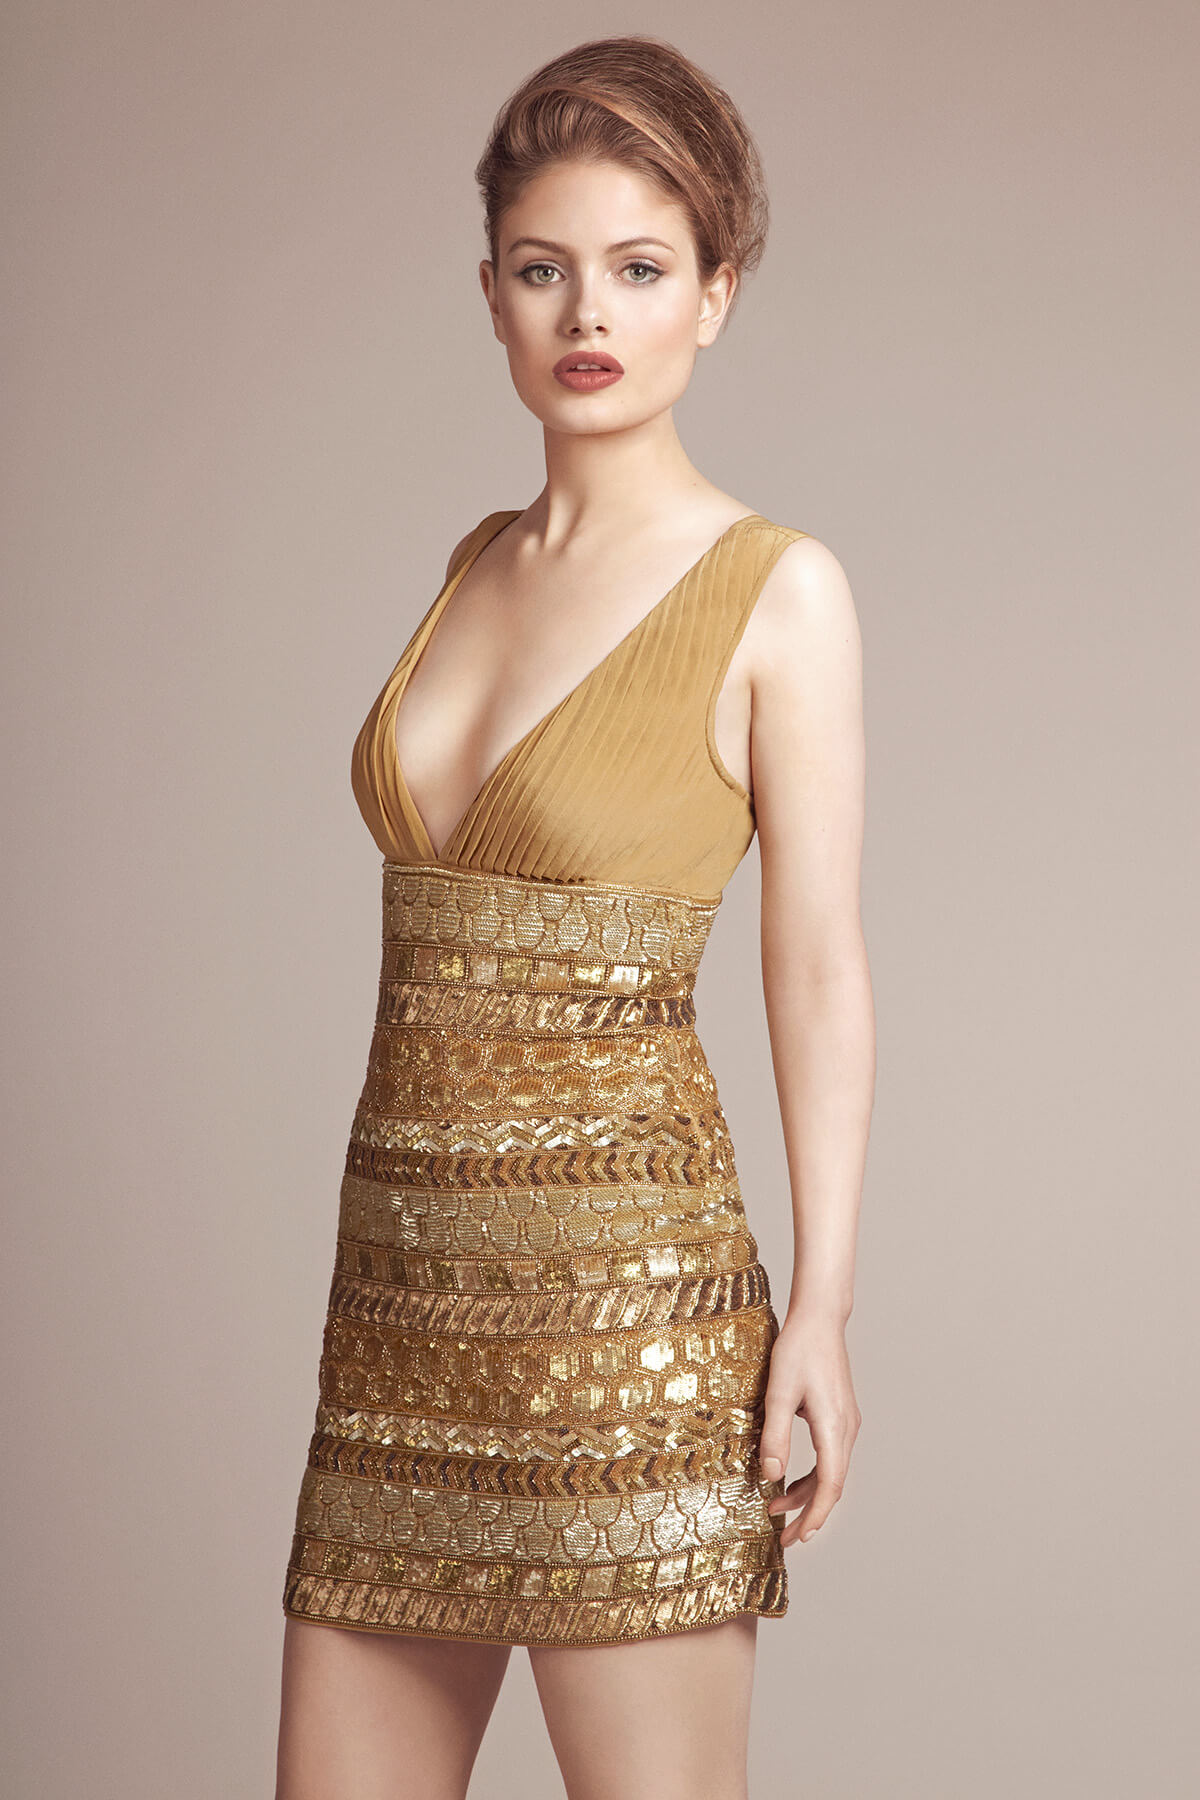
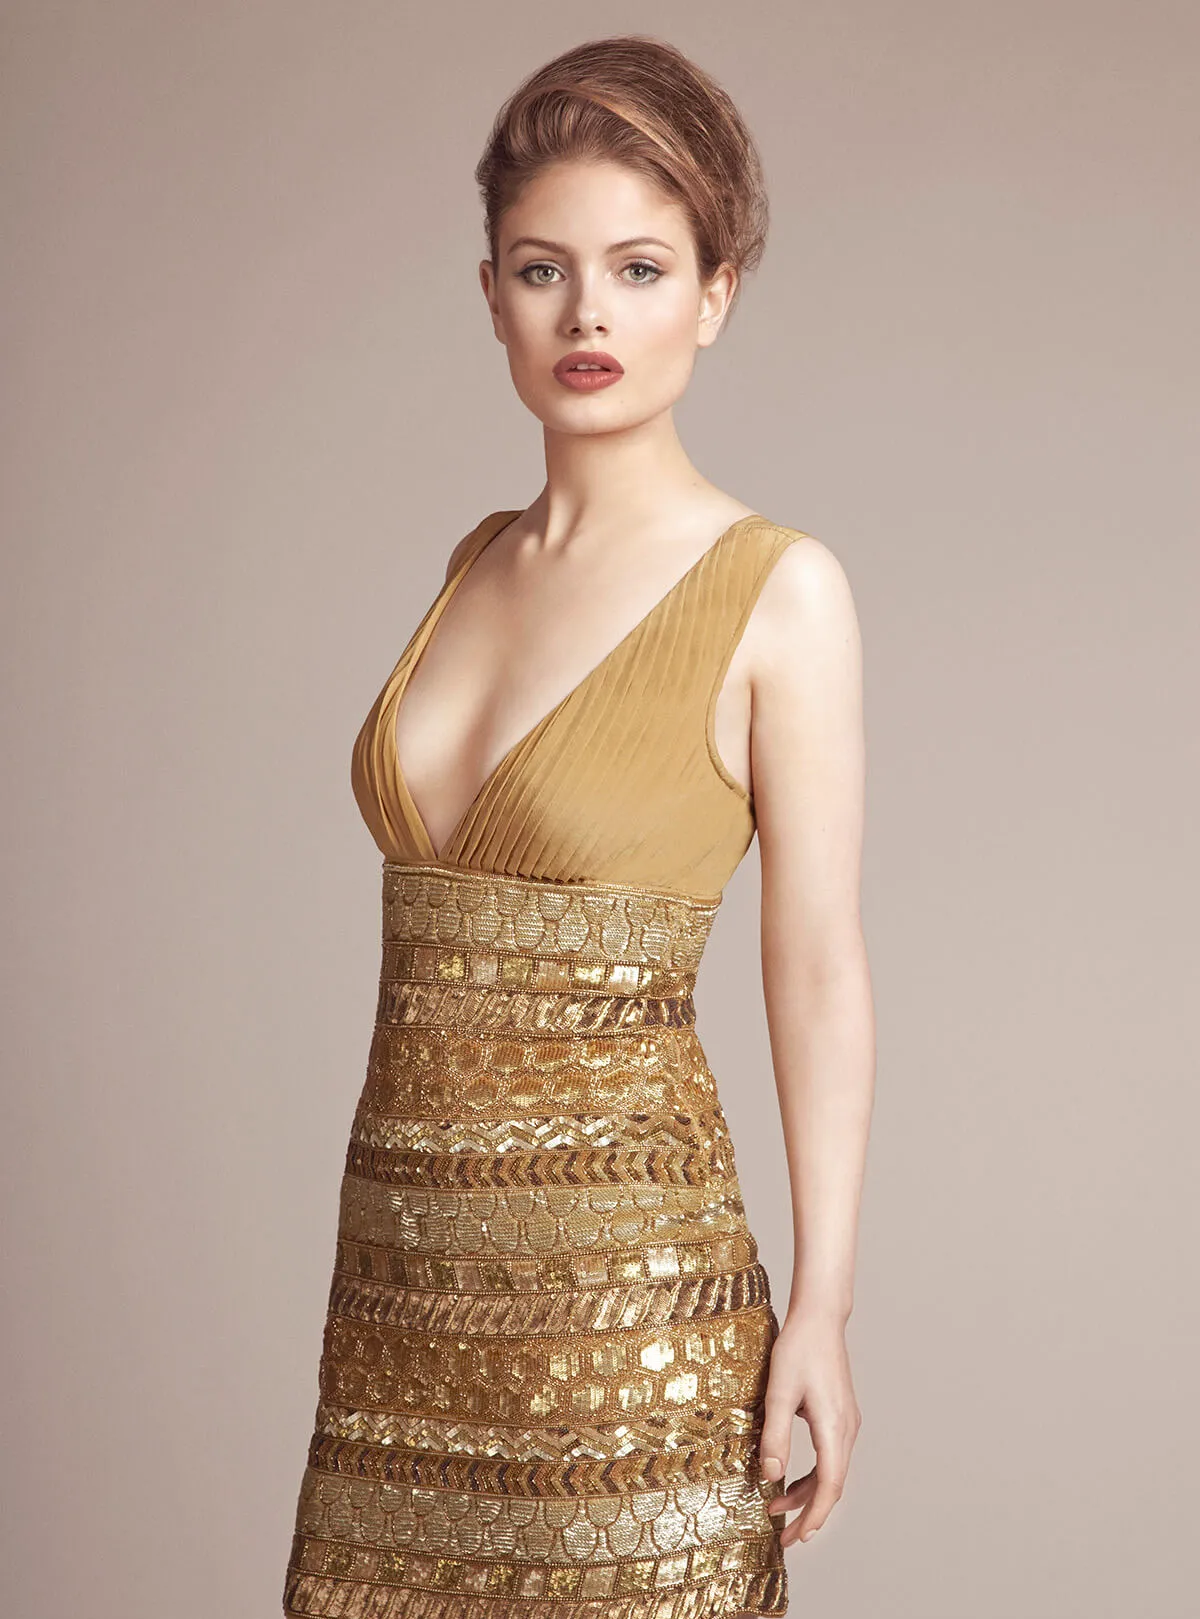
Change image in cuture and alcheme page

Changed region(s): [[0.2158, 0.0, 0.74, 1.0]]

diff --git a/src/views/CoutureView.vue b/src/views/CoutureView.vue
@@ -134,6 +134,32 @@
                             Wonder</h3>
                     </div>
 
+                    <div class="">
+                        <vue-load-image>
+                            <template v-slot:image>
+                                <img class="px-5 w-full" src="@/assets/images/couture-cascading-angel.webp" alt="Couture">
+                            </template>
+                            <template v-slot:preloader>
+                                <img class="m-auto" src="@/assets/images/image-loader.gif" alt="Image Loader" />
+                            </template>
+                            <template v-slot:error>Image load fails</template>
+                        </vue-load-image>
+                        <h3 class="uppercase text-center text-[#967C57] mt-2 text-[16px] font-[futura]">CASCADING ANGEL</h3>
+                    </div>
+
+                    <div class="">
+                        <vue-load-image>
+                            <template v-slot:image>
+                                <img class="px-5 w-full" src="@/assets/images/couture-walking-beauty.webp" alt="Couture">
+                            </template>
+                            <template v-slot:preloader>
+                                <img class="m-auto" src="@/assets/images/image-loader.gif" alt="Image Loader" />
+                            </template>
+                            <template v-slot:error>Image load fails</template>
+                        </vue-load-image>
+                        <h3 class="uppercase text-center text-[#967C57] mt-2 text-[16px] font-[futura]">WALKING BEAUTY</h3>
+                    </div>
+
 
 
                 </div>

diff --git a/src/views/AlchemyView.vue b/src/views/AlchemyView.vue
@@ -81,6 +81,28 @@ export default {
                             <template v-slot:error>Image load fails</template>
                         </vue-load-image>
                     </div>
+                    <div class="">
+                        <vue-load-image>
+                            <template v-slot:image>
+                                <img class="w-full" src="@/assets/images/Alchemy-retouched.webp" alt="Couture" />
+                            </template>
+                            <template v-slot:preloader>
+                                <img class="m-auto" src="@/assets/images/image-loader.gif" alt="Image Loader" />
+                            </template>
+                            <template v-slot:error>Image load fails</template>
+                        </vue-load-image>
+                    </div>
+                    <div class="">
+                        <vue-load-image>
+                            <template v-slot:image>
+                                <img class="w-full" src="@/assets/images/alchemy1-retouched.webp" alt="Couture" />
+                            </template>
+                            <template v-slot:preloader>
+                                <img class="m-auto" src="@/assets/images/image-loader.gif" alt="Image Loader" />
+                            </template>
+                            <template v-slot:error>Image load fails</template>
+                        </vue-load-image>
+                    </div>
                 </div>
             </div>
 
